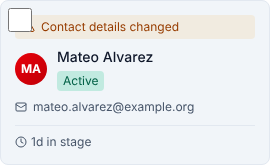
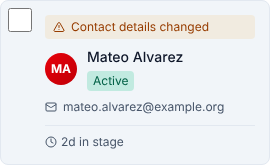
Prospective members: keep the board's selection box off the card's content
On the pipeline board each card's selection checkbox is drawn at the
card's top-left corner (absolute top-2 left-2), over the avatar or the
warning icon of a Contact details changed / inactivity banner. A card
shown with that box now insets its content (pl-11) so the box sits in
its own gutter; a board without selection keeps the usual padding.

Re-shoots 15-46-card-contact-changed, which pictured the overlap, and
marks it fixed in SCREENSHOT_CURRENCY.md.

Claude-Session: https://claude.ai/code/session_01AAxg2m8MQwbqUdnVKSTT72

diff --git a/frontend/src/modules/prospective-members/components/ApplicantCard.tsx b/frontend/src/modules/prospective-members/components/ApplicantCard.tsx
@@ -15,6 +15,12 @@ interface ApplicantCardProps {
   onClick: (applicant: ApplicantListItem) => void;
   onDragStart?: (e: React.DragEvent, applicant: ApplicantListItem) => void;
   isDragging?: boolean;
+  /**
+   * The board draws a selection checkbox over the card's top-left corner;
+   * the card then insets its content so the box does not cover the avatar
+   * or a banner's warning icon.
+   */
+  hasSelectControl?: boolean | undefined;
 }
 
 const ALERT_LEVEL_STYLES: Record<InactivityAlertLevel, { border: string; icon: string } | null> = {
@@ -23,7 +29,13 @@ const ALERT_LEVEL_STYLES: Record<InactivityAlertLevel, { border: string; icon: s
   critical: { border: 'border-red-500/40', icon: 'text-red-700 dark:text-red-400' },
 };
 
-export const ApplicantCard: React.FC<ApplicantCardProps> = ({ applicant, onClick, onDragStart, isDragging }) => {
+export const ApplicantCard: React.FC<ApplicantCardProps> = ({
+  applicant,
+  onClick,
+  onDragStart,
+  isDragging,
+  hasSelectControl,
+}) => {
   const initials = getInitials(applicant.first_name, applicant.last_name);
   const alertLevel = applicant.inactivity_alert_level ?? 'normal';
   const alertStyle = ALERT_LEVEL_STYLES[alertLevel];
@@ -42,7 +54,7 @@ export const ApplicantCard: React.FC<ApplicantCardProps> = ({ applicant, onClick
           onClick(applicant);
         }
       }}
-      className={`bg-theme-surface-hover hover:border-theme-surface-border hover:bg-theme-surface-hover cursor-pointer rounded-lg border p-3.5 transition-all ${
+      className={`bg-theme-surface-hover hover:border-theme-surface-border hover:bg-theme-surface-hover cursor-pointer rounded-lg border p-3.5 transition-all ${hasSelectControl ? 'pl-11' : ''} ${
         isDragging ? 'opacity-50 ring-2 ring-red-500' : ''
       } ${alertStyle ? alertStyle.border : 'border-theme-surface-border'}`}
     >

diff --git a/frontend/src/modules/prospective-members/components/PipelineKanban.test.tsx b/frontend/src/modules/prospective-members/components/PipelineKanban.test.tsx
@@ -261,3 +261,33 @@ describe('PipelineKanban applicants from another pipeline', () => {
     expect(screen.queryByRole('button', { name: /Devon Marsh/ })).toBeNull();
   });
 });
+
+// The selection box is drawn over the card's top-left corner, where the
+// avatar or a banner's warning icon sits. jsdom does no layout, so the test
+// asserts the inset that keeps the card's content clear of the box.
+describe('PipelineKanban selection checkbox', () => {
+  it('insets the card content when a selection box sits over its corner', () => {
+    renderWithRouter(
+      <PipelineKanban
+        pipelineId="pipe-1"
+        stages={stages}
+        applicants={[applicant]}
+        onApplicantClick={vi.fn()}
+        selectedApplicants={new Set()}
+        onToggleSelect={vi.fn()}
+      />
+    );
+
+    expect(screen.getByRole('checkbox', { name: 'Select Riley Bishop' })).toBeInTheDocument();
+    expect(screen.getByRole('button', { name: /Riley Bishop/ })).toHaveClass('pl-11');
+  });
+
+  it('keeps the usual padding when the board offers no selection', () => {
+    renderWithRouter(
+      <PipelineKanban pipelineId="pipe-1" stages={stages} applicants={[applicant]} onApplicantClick={vi.fn()} />
+    );
+
+    expect(screen.queryByRole('checkbox')).not.toBeInTheDocument();
+    expect(screen.getByRole('button', { name: /Riley Bishop/ })).not.toHaveClass('pl-11');
+  });
+});

diff --git a/frontend/src/modules/prospective-members/components/PipelineKanban.tsx b/frontend/src/modules/prospective-members/components/PipelineKanban.tsx
@@ -211,6 +211,7 @@ export const PipelineKanban: React.FC<PipelineKanbanProps> = ({
               onClick={onApplicantClick}
               onDragStart={handleDragStart}
               isDragging={draggedApplicant?.id === applicant.id}
+              hasSelectControl={!!onToggleSelect}
             />
           </div>
         ))

diff --git a/docs/training/SCREENSHOT_CURRENCY.md b/docs/training/SCREENSHOT_CURRENCY.md
@@ -31,7 +31,7 @@ the browser.
 | `15-43-interview-follow-up-answers` | New | Mocked: his request list (marked submitted) and its answers |
 | `15-44-follow-up-drawer-resend` | New | Mocked: his request read as sent; in the demo it is Not sent (`15-34`) |
 | `15-45-follow-up-drawer-contact-changed` | New | Mocked: his request read as submitted, with the mobile and street address changes. Resend and Mark reviewed never share one request (Resend is for an unsubmitted form, the flag is raised by a submission), so they are two images |
-| `15-46-card-contact-changed` | New | Mocked: the board's real applicant list with his `contact_change_pending` set. The card's selection checkbox sits over the flag's warning icon, as it sits over the avatar on every card; see the list below |
+| `15-46-card-contact-changed` | New | Mocked: the board's real applicant list with his `contact_change_pending` set. Re-shot 2026-11-05 once the card's selection checkbox stopped covering the flag's warning icon; see the list below |
 | `04-97-event-qr-page-guest-code` | New | The QR page of the Volunteer Interest Night while check-in is open: the member code with **Print QR Code** and the guest card with **Print Guest QR Code**. Nothing mocked |
 | `03-130-pattern-paused` | Re-shot | Now on Shift Patterns, card open; alt text corrected and the image moved to the guide's Shift Patterns section, replacing the sentence that pointed to the Templates section |
 | `01-22-member-lifecycle` | Re-shot | The roster's Actions column is no longer clipped. Taller frame, since a Needs attention card now sits above the area cards |
@@ -199,7 +199,8 @@ code:
 - On the prospective-members board, each card's selection checkbox
   (`PipelineKanban.tsx`, `absolute top-2 left-2`) sits over the card's top-left
   corner: the avatar, or the warning icon of a **Contact details changed** or
-  inactivity banner (seen 2026-11-04 in `15-46`).
+  inactivity banner (seen 2026-11-04 in `15-46`). **Fixed**: a card with the
+  box insets its content; `15-46` re-shot 2026-11-05.
 - A case manager without manage rights sees **Send now**, which guide 15 says
   needs `prospective_members.manage`.
 
